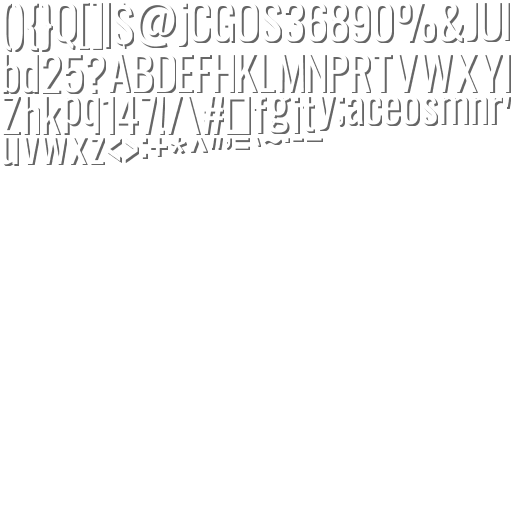
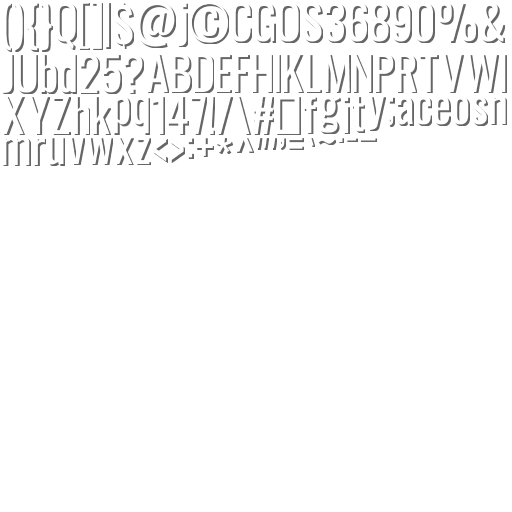
Add copyright symbol into font for captains in the future

Changed region(s): [[0.0, 0.0, 1.0, 0.3438]]

diff --git a/server/routes/teams.js b/server/routes/teams.js
@@ -1,16 +1,16 @@
-const express = require("express");
+const express = require('express');
 const router = express.Router();
-const axios = require("axios");
-const cheerio = require("cheerio");
-const Jimp = require("jimp");
+const axios = require('axios');
+const cheerio = require('cheerio');
+const Jimp = require('jimp');
 
 module.exports = (db) => {
-  router.get("/", async (req, res) => {
+  router.get('/', async (req, res) => {
     const data = await db.query("SELECT * FROM teams ORDER BY teams.name;");
     res.json(data.rows);
   });
 
-  router.put("/players", async (req, res) => {
+  router.put('/players', async (req, res) => {
     const { rosterUrl } = req.body;
     try {
       const { data } = await axios(rosterUrl);
@@ -33,7 +33,7 @@ module.exports = (db) => {
     }
   });
 
-  router.put("/lineup", async (req, res) => {
+  router.put('/lineup', async (req, res) => {
     const { Base64, updatedXI, teamName } = req.body;
     const splitted = Base64.split(",");
     const buffer = Buffer.from(splitted[1], "base64");
@@ -63,7 +63,7 @@ module.exports = (db) => {
         725,
         yAxisNumCounter,
         {
-          text: player.name,
+          text: player.isCaptain ? `${player.name} ©` : player.name,
           alignmentX: Jimp.HORIZONTAL_ALIGN_LEFT,
           alignmentY: Jimp.VERTICAL_ALIGN_MIDDLE,
         },
